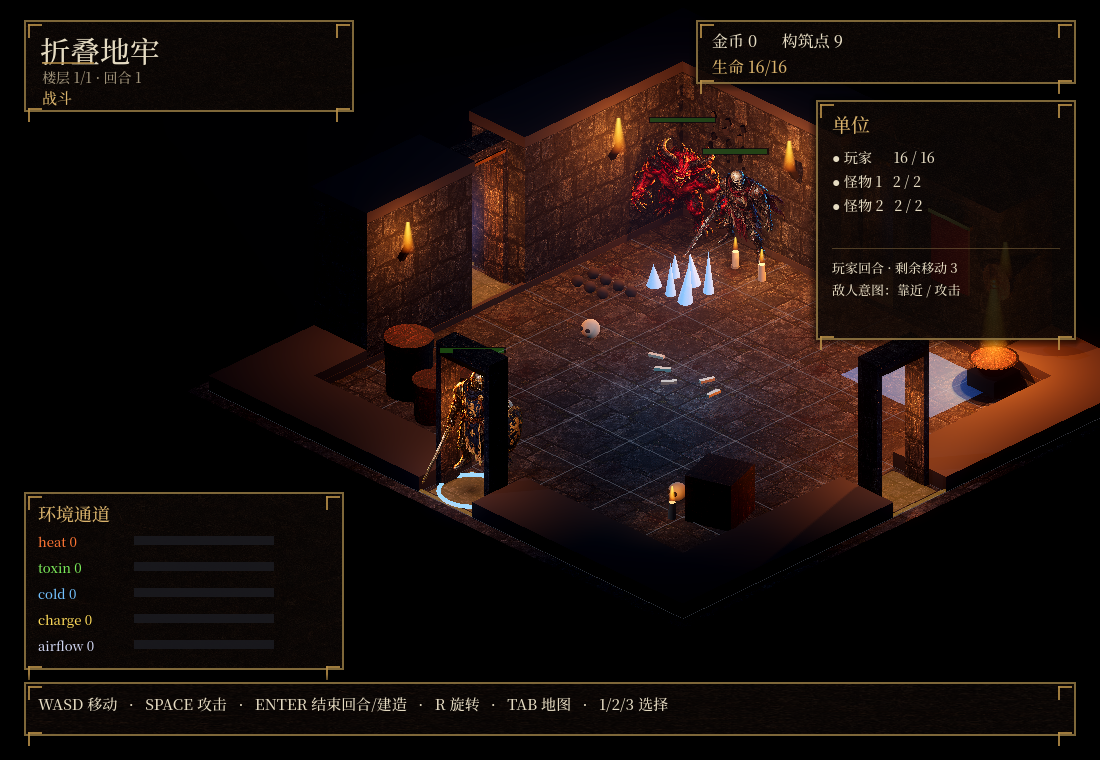
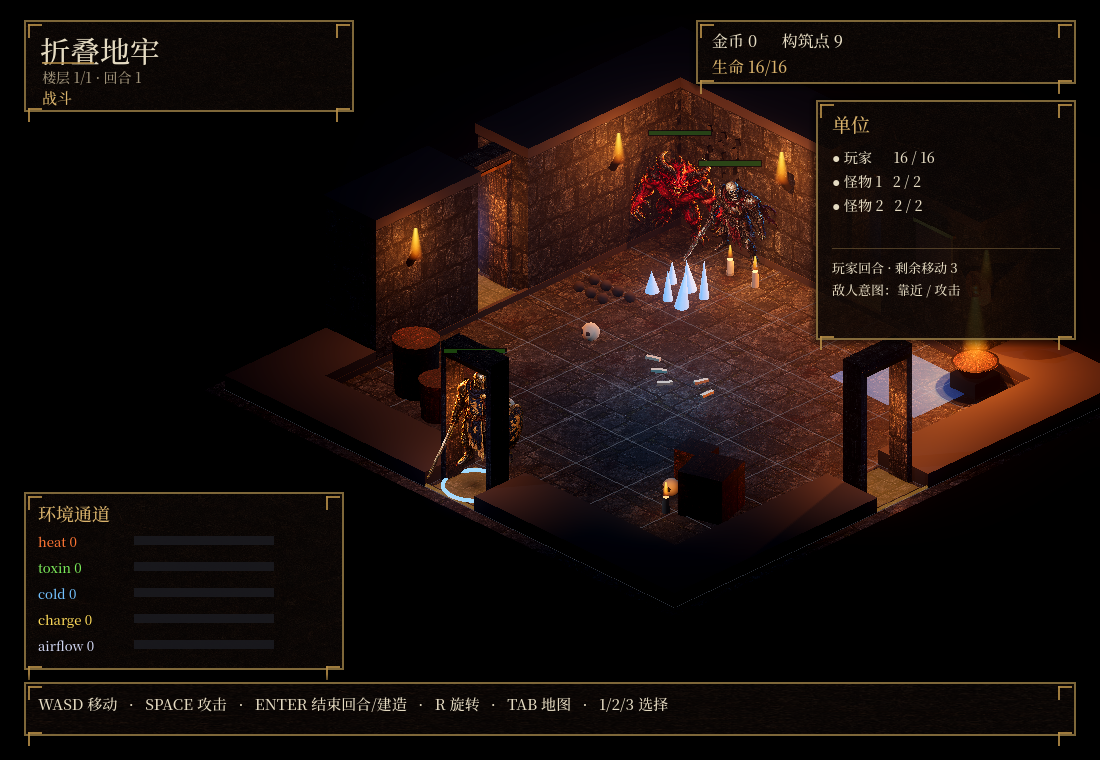
M7-5: 玩家/怪物受击帧入库 + 主题道具/音乐截图更新

Changed region(s): [[0.2473, 0.0908, 1.0, 0.7263], [0.2782, 0.5447, 0.3091, 0.575], [0.2164, 0.4539, 0.2473, 0.4842]]

diff --git a/docs/09-视觉与手感升级方案（M6）.md b/docs/09-视觉与手感升级方案（M6）.md
@@ -89,7 +89,7 @@
 - **单位表现**：新增朝向翻转、**Boss 专属立绘（monster-boss / -attack，已入库）**、受击帧接口（缺资源时回退）、移动尘土、击杀/ Boss 能力镜头 zoom 脉冲；
 - **画面修复**：移除房间蛛网四边形（additive 贴图在暗背景上形成噪点矩形伪影），Boss 截图已重拍；
 - **发布**：Windows 单 exe 已在本地导出（`game/build/windows/FoldedDungeon.exe`，含 Boss 立绘版本）；GitHub Release 大文件上传两次超时，暂缓，README 暂不提供下载链接。README GIF 已用新 Boss 立绘重录。
-- **M7-4**：房间主题道具密度提升（各主题新增炉台/冰晶/镜面/祭坛/靶场等与主题色旗帜）；新增标题音乐与战斗音乐层（程序合成，Music 总线）；受击帧资源继续补齐。
+- **M7-4**：房间主题道具密度提升（各主题新增炉台/冰晶/镜面/祭坛/靶场等与主题色旗帜）；新增标题音乐与战斗音乐层（程序合成，Music 总线）；**玩家/炎魔/骷髅受击帧已入库**（Unit3D 受击时自动切换）。
 - **待办**：受击帧资源、动作帧密度、混音细化、Windows 真机冒烟。
 
 ---

diff --git a/README.md b/README.md
@@ -42,7 +42,7 @@
 | **完整单局循环** | 蓝图 3 选 1 → 构筑 → 探索穿门 → 战斗 / 事件 / 休整 / 商店 → 奖励 → Boss → 结算 |
 | **2.5D 暗黑地牢** | 3D 正交斜俯视房间 + AI 立绘单位 + 火把/雾/阴影 + 皮革悬浮 HUD；标题界面 → 单局 → 结算闭环 |
 | **3D 宏观构筑** | 5×5 地牢俯瞰、门位标记、半透明放置 ghost、R 旋转；16 个房间各有主题色与程序化装饰 |
-| **战斗表现** | 命中斩击/受击闪红/伤害数字/镜头抖动；火焰波/镜面转向/箭塔/Boss 能力有事件驱动 FX；程序合成 + CC0 音效 |
+| **战斗表现** | 命中斩击/受击帧/伤害数字/镜头抖动；火焰波/镜面转向/箭塔/Boss 能力有事件驱动 FX；CC0 + 程序合成音效 / 标题与战斗音乐层 |
 | **存档与复现** | 构筑节点 JSON 快照；同种子楼层 / 蓝图选项可复现；事件日志可回放 |
 | **确定性测试** | 108 tests / 1707 assertions 全绿，含 12×12 = 144 组房间组合矩阵；CI 每次 push/PR 自动跑 |
 
